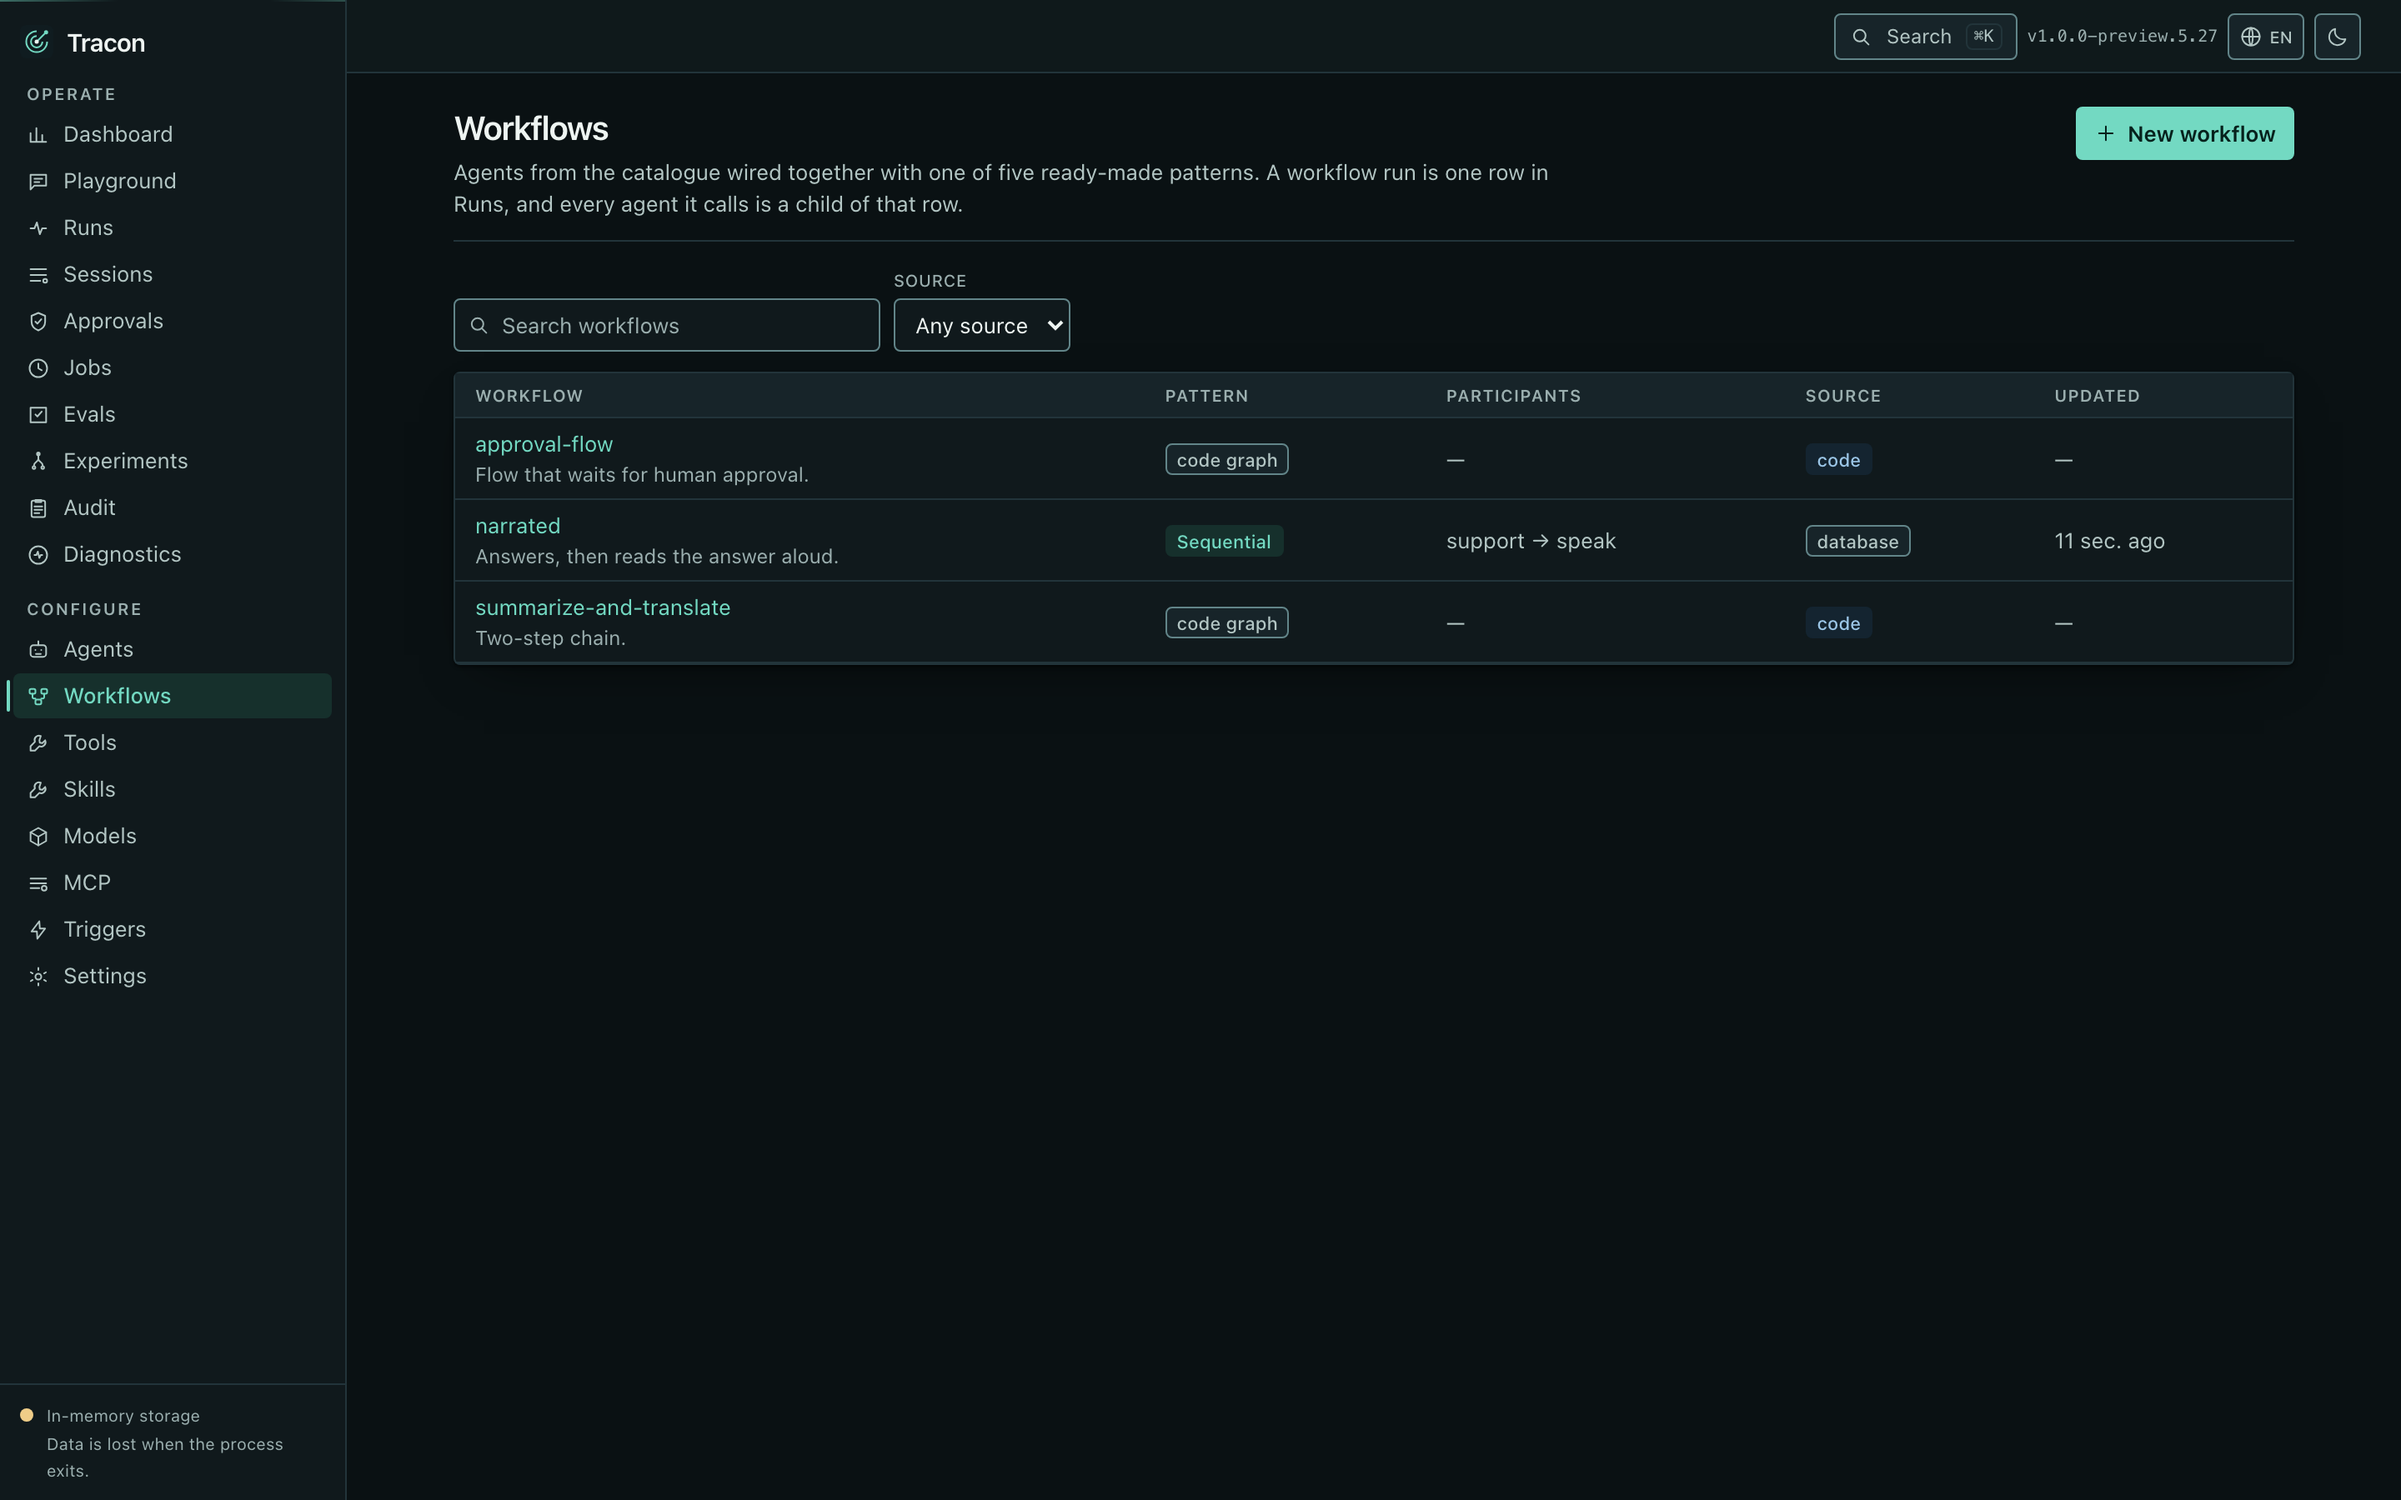
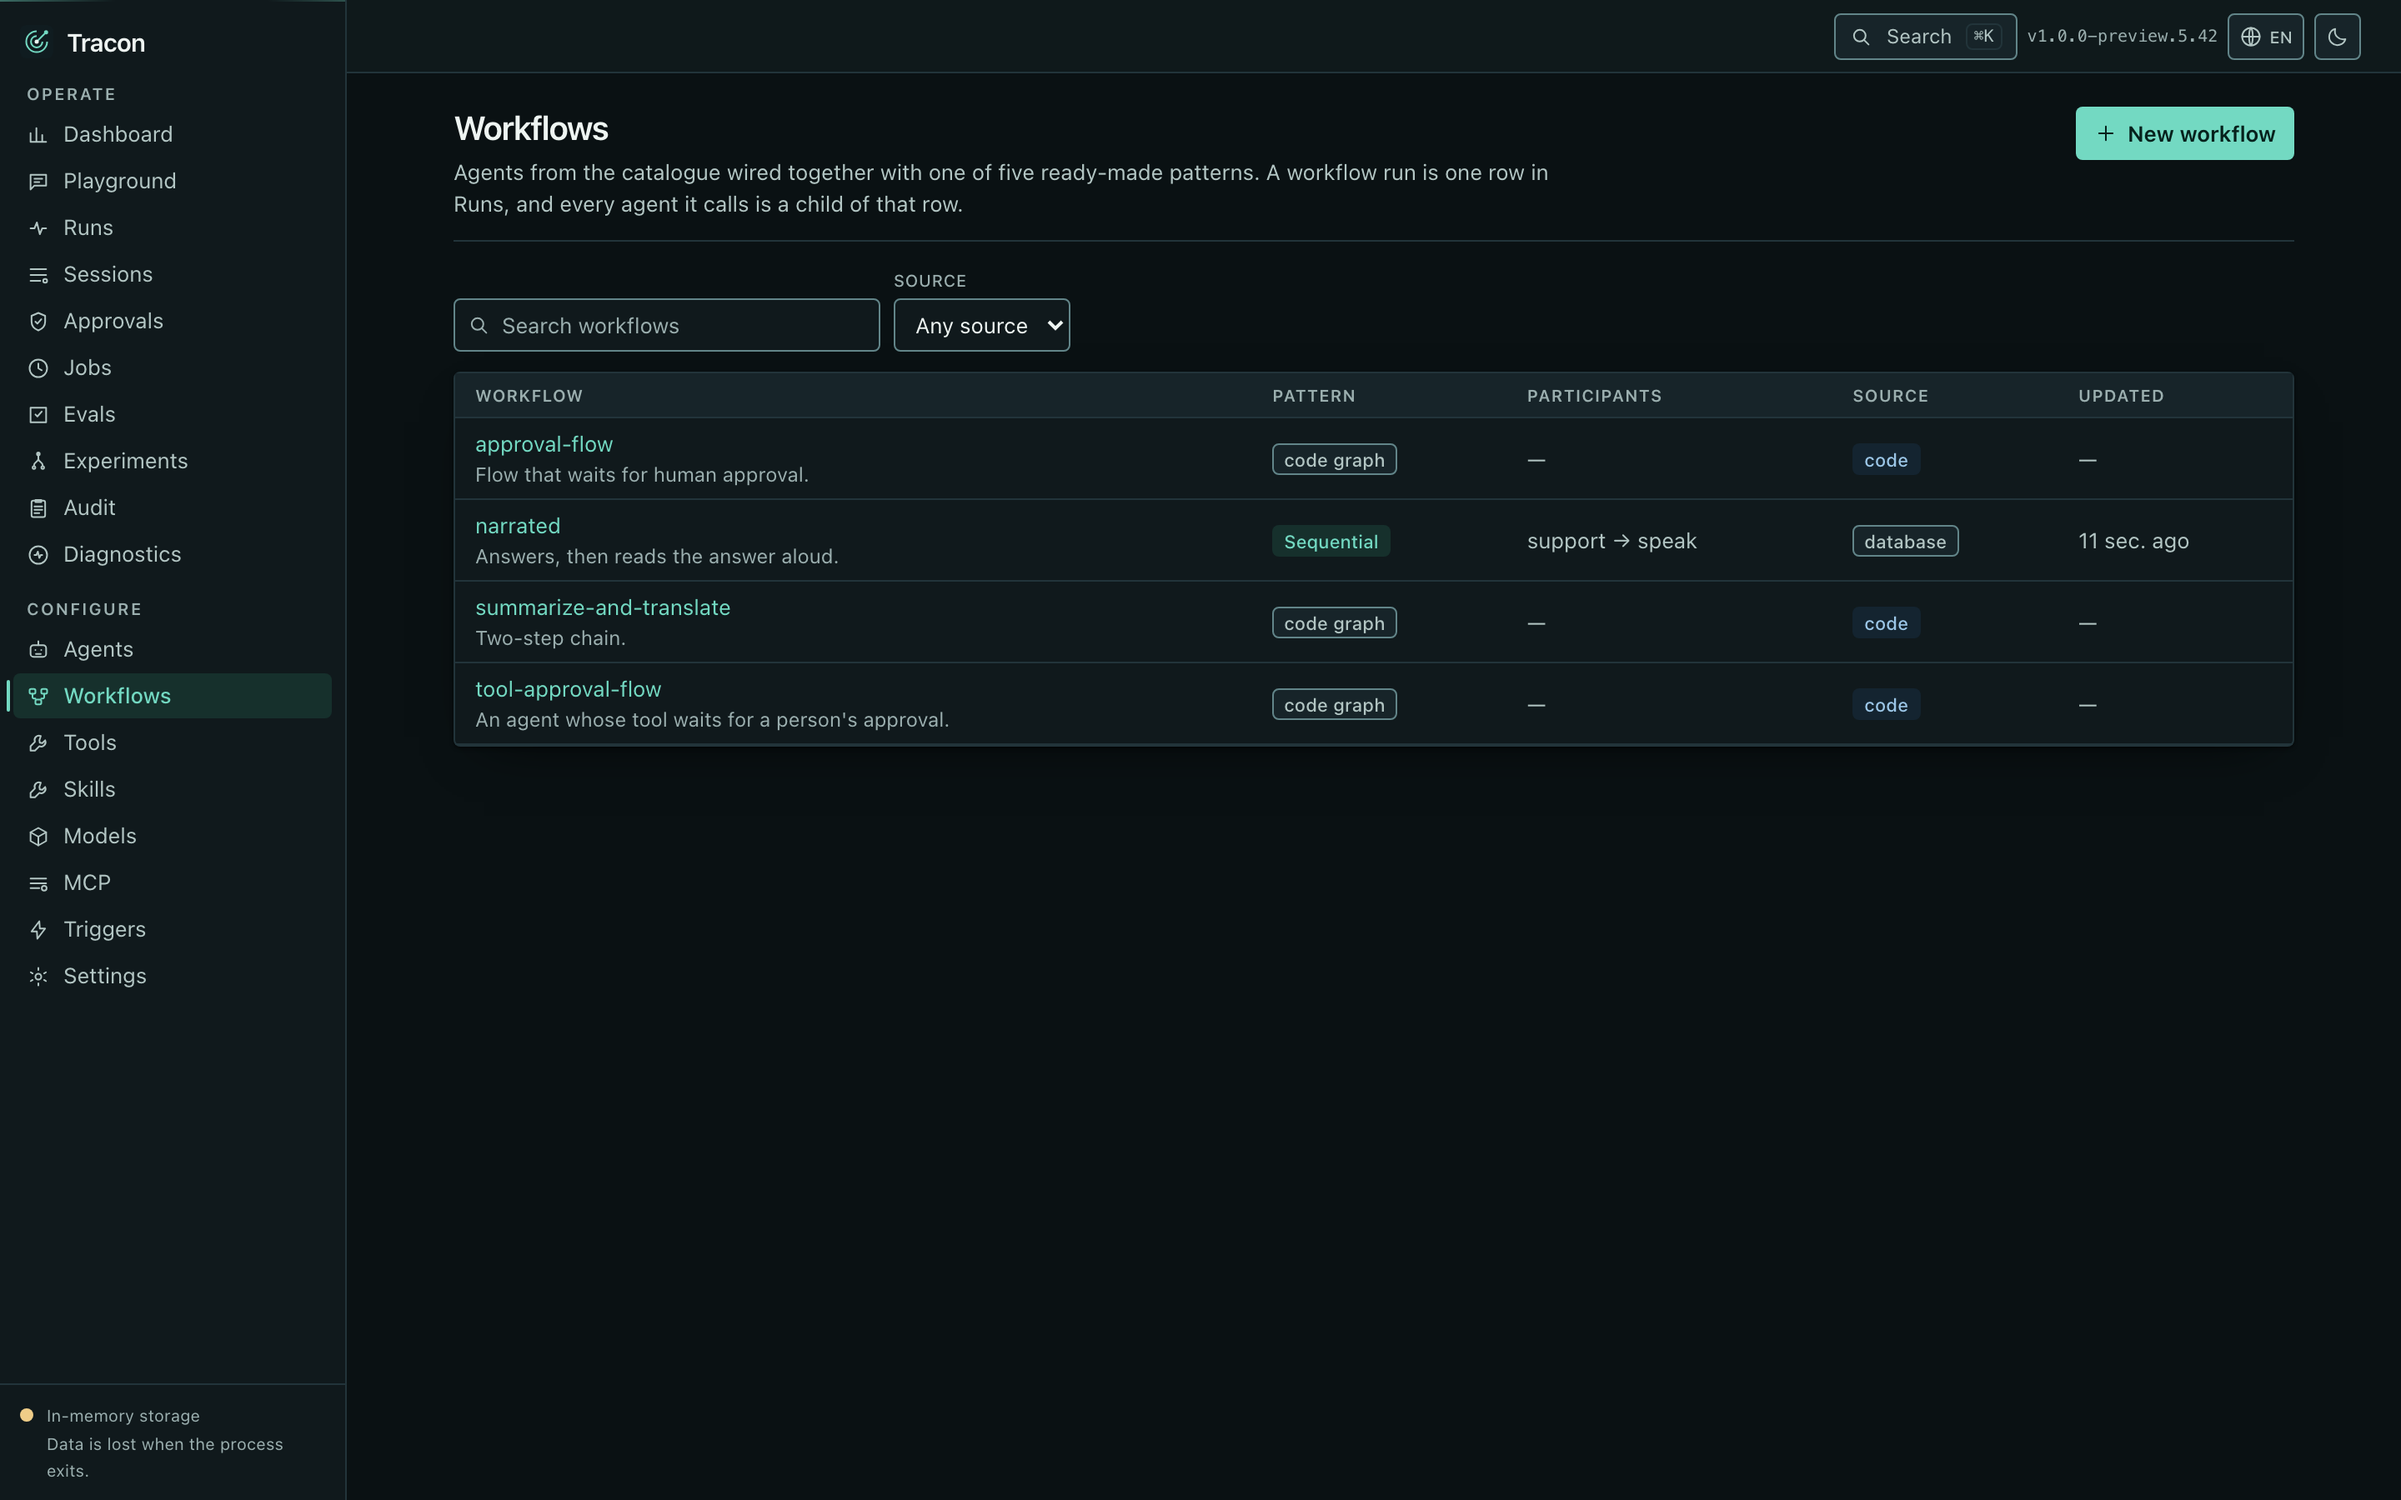
docs(phase-230): site gates green — answer rules on the workflow answers page, console card, screenshots

diff --git a/tests/Tracon.Ui.E2ETests/Infrastructure/UiHost.cs b/tests/Tracon.Ui.E2ETests/Infrastructure/UiHost.cs
@@ -256,7 +256,7 @@ internal sealed class UiHost : IAsyncDisposable
                 static services => Microsoft.Agents.AI.Workflows.AgentWorkflowBuilder.BuildSequential(
                     "tool-approval-flow",
                     [services.GetWorkflowAgent("tool-approval-flow", "approval-agent")]),
-                "An agent whose tool waits for a person's approval (phase 230).")
+                "An agent whose tool waits for a person's approval.")
             .AddWorkflow(
                 "approval-flow",
                 static _ => ApprovalWorkflow.Build(),

diff --git a/docs-site/src/content/docs/concepts/workflow-answers.md b/docs-site/src/content/docs/concepts/workflow-answers.md
@@ -1,13 +1,14 @@
 ---
 title: Answering a workflow
-description: How an answer to a waiting workflow is audited and recorded, and how a one-answer workflow follows a repeated answer and refuses a different one.
+description: How an answer to a waiting workflow is audited and recorded, how a one-answer workflow treats a repeat, and how to answer a tool call that waits for approval.
 sidebar:
   order: 6
 ---
 
 What happens when a person answers a workflow that waits for input, and what happens when
 the same request gets a second answer? This page covers the two response modes, the audit
-entry and the record every answer leaves, and the cases where an answer can be given again.
+entry and the record every answer leaves, the cases where an answer can be given again, and
+the answer to an agent's tool call that waits for approval.
 How a workflow asks, and how an answer resumes it, is in
 [Asking a human](/concepts/workflows/#asking-a-human).
 
@@ -66,6 +67,62 @@ When a process stops while a streamed `SingleAnswer` run is going, that run stay
 `Running` run whose heartbeat stopped, and it reads no `Queued` run. Turn it on where a
 one-answer request must stay answerable after a crash.
 :::
+
+## A tool that asks for approval
+
+An agent in a workflow can call a tool that
+[needs approval](/concepts/governance/#approvals). Where the pattern hosts the agent — all
+five stored patterns when the definition lists `agentNames`, and a code graph that binds
+the agent with `GetWorkflowAgent` — the workflow stops instead of failing. The step's run
+closes `AwaitingApproval`, the workflow run closes `AwaitingInput`, and the request has the
+form `ToolApproval`. Its `prompt` names the tool and adds what your
+[approval presenter](/concepts/governance/#approvals) says about the call; the arguments
+are not copied into it.
+
+```mermaid
+flowchart LR
+    accTitle: A tool approval inside a workflow
+    accDescr: An agent in a workflow calls a tool that needs approval. The workflow closes as awaiting input with a ToolApproval request. The answer is audited, optionally saved as a rule, and the workflow continues on a new run that runs the tool once or hands the agent the refusal.
+    CALL["agent calls a tool<br/>that needs approval"] --> WAIT["workflow closes AwaitingInput<br/>request form: ToolApproval"]
+    WAIT --> ANS["POST .../respond<br/>approved, text, remember"]
+    ANS --> AUD["approval.decision audited<br/>rule saved when remembered"]
+    AUD --> NEW["a NEW run continues<br/>the tool runs once, or the agent reads the refusal"]
+```
+
+Answer it on the same endpoint as any other request:
+
+```bash
+curl -X POST "$TRACON/api/workflows/runs/$RUN/respond" \
+  -H "Content-Type: application/json" \
+  -d '{"requestId": "'"$REQUEST"'", "approved": true, "text": "checked with the customer", "remember": true}'
+```
+
+| Field | Meaning |
+|---|---|
+| `approved` | Required. `true` runs the tool; `false` refuses it, and the agent reads the refusal |
+| `text` | Optional reason. The agent reads it |
+| `remember` | Optional. With `approved: true`, also saves a rule: this agent is not asked again for this tool |
+
+The answer carries a decision and nothing else. It cannot name a tool call, because the
+call comes from the request the workflow recorded: a `data` value is refused with `400`, and
+so is `remember` together with `approved: false`, or on a request of any other form. The
+decision is written to the audit trail as `approval.decision` before the workflow
+continues, and an entry that cannot be written refuses the answer and leaves the
+workflow waiting. A rule saved with `remember` is the same rule the run-request path saves,
+for the agent that asked and the tool; a request that cannot name its agent (an agent
+Tracon did not wrap) cannot be remembered.
+
+The tool runs once, in the new run the answer opens, and it runs in whatever process takes
+the answer: the call is in the checkpoint, so a restart in between loses nothing. With
+`Concurrent`, two agents can ask at once: each approval is a request of its own, answered on
+its own, and the run that carries the first answer waits on the second. A request nobody
+answers runs out like any other ([Workflow requests and time
+limits](/concepts/workflow-requests/#giving-a-request-a-time-limit)); the step that waited
+closes `Failed` with the workflow.
+
+An agent that a step's agent calls as a sub-agent still cannot ask: its approval is a tool
+result the step's model reads, as in [Agents calling
+agents](/concepts/agents/#agents-calling-agents).
 
 ## What every answer leaves behind, in either mode
 

diff --git a/docs-site/src/content/docs/concepts/workflows.md b/docs-site/src/content/docs/concepts/workflows.md
@@ -900,49 +900,10 @@ In the default response mode, a second answer to the same request opens a second
 
 ### A tool that asks for approval
 
-An agent in a workflow can call a tool that
-[needs approval](/concepts/governance/#approvals). Where the pattern hosts the agent — all
-five stored patterns when the definition lists `agentNames`, and a code graph that binds
-the agent with `GetWorkflowAgent` — the workflow stops instead of failing. The step's run
-closes `AwaitingApproval`, the workflow run closes `AwaitingInput`, and the request has the
-form `ToolApproval`. Its `prompt` names the tool and adds what your
-[approval presenter](/concepts/governance/#approvals) says about the call; the arguments
-are not copied into it.
-
-Answer it on the same endpoint as any other request:
-
-```bash
-curl -X POST "$TRACON/api/workflows/runs/$RUN/respond" \
-  -H "Content-Type: application/json" \
-  -d '{"requestId": "'"$REQUEST"'", "approved": true, "text": "checked with the customer", "remember": true}'
-```
-
-| Field | Meaning |
-|---|---|
-| `approved` | Required. `true` runs the tool; `false` refuses it, and the agent reads the refusal |
-| `text` | Optional reason. The agent reads it |
-| `remember` | Optional. With `approved: true`, also saves a rule: this agent is not asked again for this tool |
-
-The answer carries a decision and nothing else. It cannot name a tool call, because the
-call comes from the request the workflow recorded: a `data` value is refused with `400`, and
-so is `remember` together with `approved: false`, or on a request of any other form. The
-decision is written to the audit trail as `approval.decision` before the workflow
-continues, and an entry that cannot be written refuses the answer and leaves the
-workflow waiting. A rule saved with `remember` is the same rule the run-request path saves,
-for the agent that asked and the tool; a request that cannot name its agent (an agent
-Tracon did not wrap) cannot be remembered.
-
-The tool runs once, in the new run the answer opens, and it runs in whatever process takes
-the answer: the call is in the checkpoint, so a restart in between loses nothing. With
-`Concurrent`, two agents can ask at once: each approval is a request of its own, answered on
-its own, and the run that carries the first answer waits on the second. A request nobody
-answers runs out like any other ([Workflow requests and time
-limits](/concepts/workflow-requests/#giving-a-request-a-time-limit)); the step that waited
-closes `Failed` with the workflow.
-
-An agent that a step's agent calls as a sub-agent still cannot ask: its approval is a tool
-result the step's model reads, as in [Agents calling
-agents](/concepts/agents/#agents-calling-agents).
+Where the pattern hosts the agent, a tool that needs approval stops the workflow instead of
+failing it: the request has the form `ToolApproval` and is answered with `approved`, a
+reason, and optionally `remember`. [Answering a tool
+approval](/concepts/workflow-answers/#a-tool-that-asks-for-approval) has the rules.
 
 ### One answer per request
 

diff --git a/docs-site/src/content/docs/ui.md b/docs-site/src/content/docs/ui.md
@@ -250,6 +250,14 @@ playground does — one field per parameter, Run disabled while a required one i
 and sends the values with the message. The editor keeps the schema across a save but does
 not change it yet; create or change it with `PUT /api/workflows/{name}`.
 
+When a run waits for a person, a card under the run panel asks for the answer the request
+needs: a yes or no, text, JSON, or a plan to approve or send back. A tool call that waits
+for approval shows the tool and what your approval presenter says about the call; the card
+has **Approve** and **Reject**, a reason the agent reads, and *Do not ask again for this
+agent and tool*, which saves a rule when you approve (see [A tool that asks for
+approval](/concepts/workflow-answers/#a-tool-that-asks-for-approval)). The tenant-wide list of
+waiting requests is the *Workflow requests* panel of the Approvals screen.
+
 <a class="ui-shot" href="/screenshots/workflow-editor.png"><img src="/screenshots/workflow-editor.png" alt="The workflow editor with an agent step, a function step and the function's settings field" width="2880" height="1800" loading="lazy" decoding="async" /></a>
 
 The editor builds the chain. *Add an agent* and *Add a function* pick from the agents in

diff --git a/docs/YOL-HARITASI.md b/docs/YOL-HARITASI.md
@@ -15,6 +15,6 @@ bu dosyayı düzeltmek bir sonraki üretimde geri alınır.
 | Faz | Konu | Durum |
 |-----|------|-------|
 | [193](193-NET8-NET9-DUSURME.md) | `net8.0` ve `net9.0` Hedeflerinin Düşürülmesi | 📋 Planlandı |
-| [230](230-WORKFLOW-ADIMINDA-TOOL-ONAYI.md) | Workflow Adımında Tool Onayı | 📋 Planlandı |
+| [230](230-WORKFLOW-ADIMINDA-TOOL-ONAYI.md) | Workflow Adımında Tool Onayı | 🔨 Uygulandı, denetimde (2026-10-21) |
 
 Kapanan fazlar (229 kayıt; son: Faz 229 — A2A Çok Tur ve Çağıran İzolasyonu): [`FAZ-DEFTERI.md`](FAZ-DEFTERI.md). Kapanan faz dokümanı silinir; tam metne defterdeki `git show` işaretçisi götürür. Seçilmemiş adaylar: [`ADAYLAR.md`](ADAYLAR.md).

diff --git a/docs-site/src/content/docs/concepts/governance.md b/docs-site/src/content/docs/concepts/governance.md
@@ -339,7 +339,7 @@ the form `ToolApproval`; the answer goes to
 `POST /api/workflows/runs/{runId}/respond` with `approved`, an optional reason in `text`, and
 optionally `remember`. The decision is recorded as `approval.decision`, like the other two, and
 saved as a rule the same way. See [A tool that asks for
-approval](/concepts/workflows/#a-tool-that-asks-for-approval).
+approval](/concepts/workflow-answers/#a-tool-that-asks-for-approval).
 
 Deciding either way **resumes** the run — the model has to see a result or a refusal
 and continue. And the decision opens a **new** run; the one that stopped is never

diff --git a/docs-site/src/content/docs/concepts/workflow-requests.md b/docs-site/src/content/docs/concepts/workflow-requests.md
@@ -19,7 +19,7 @@ the *Workflow requests* panel of the Approvals screen. Each item is a
 [pending request](/http-api/schemas/workflowpendingrequest/) with five more fields. A request
 whose `form` is `ToolApproval` is an agent's tool call waiting for a person; the Approvals
 screen lists it here with the other requests, and the console answers it on the workflow's
-card ([A tool that asks for approval](/concepts/workflows/#a-tool-that-asks-for-approval)):
+card ([A tool that asks for approval](/concepts/workflow-answers/#a-tool-that-asks-for-approval)):
 
 | Field | Meaning |
 |---|---|
